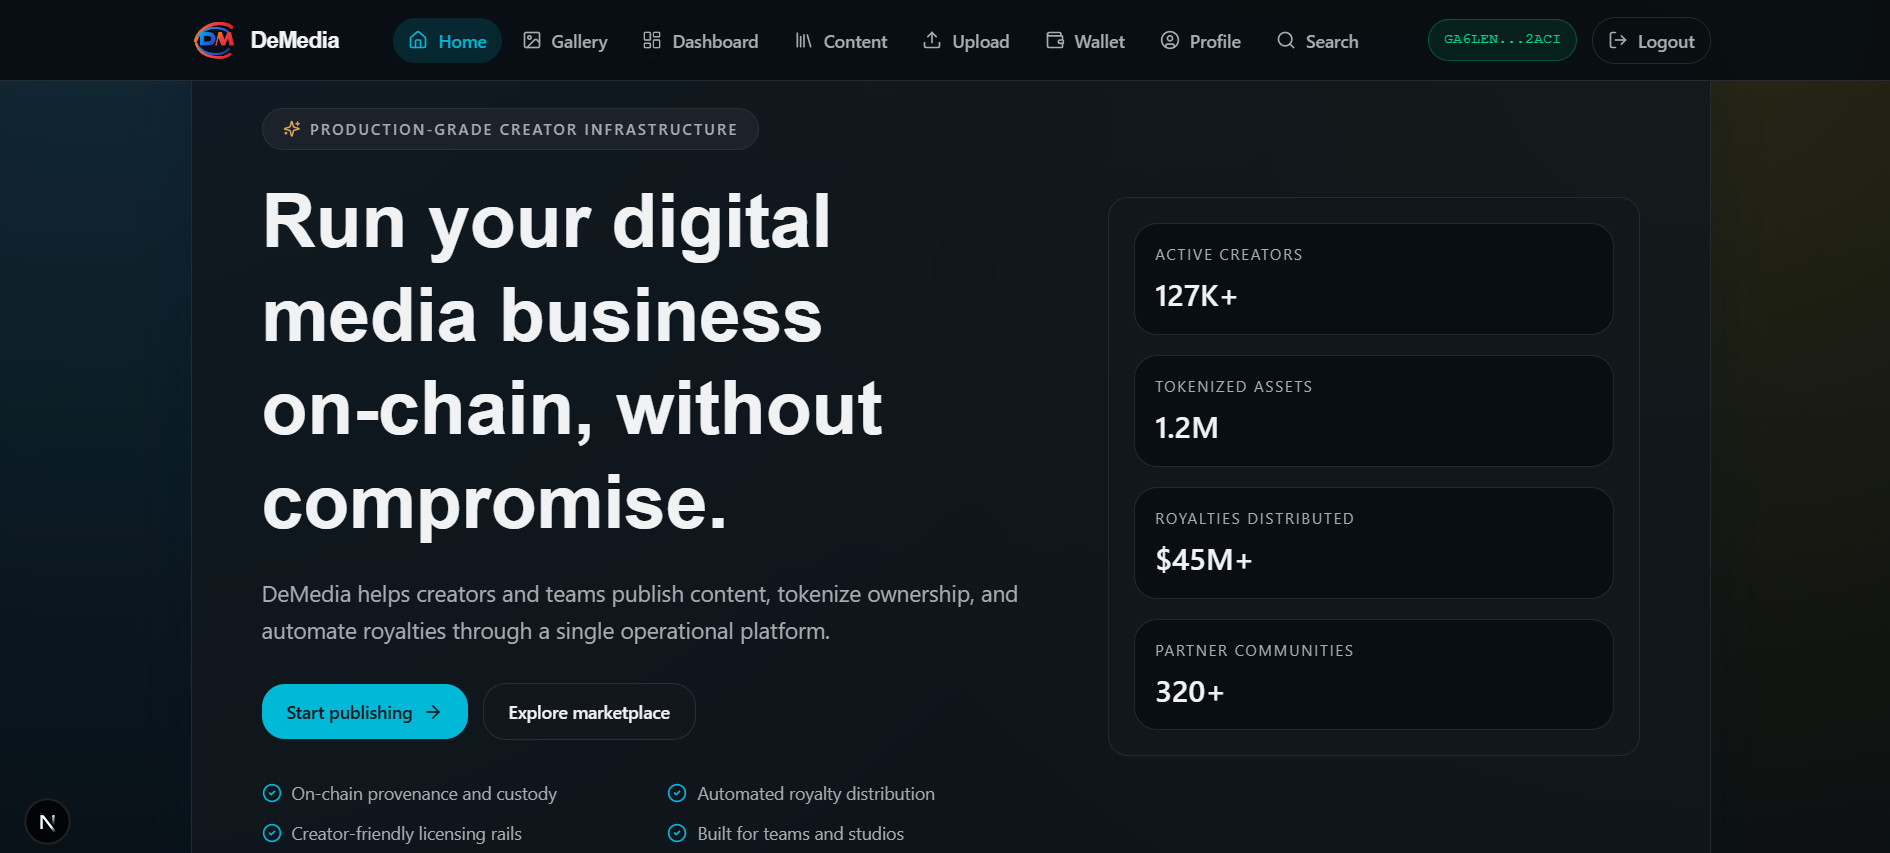
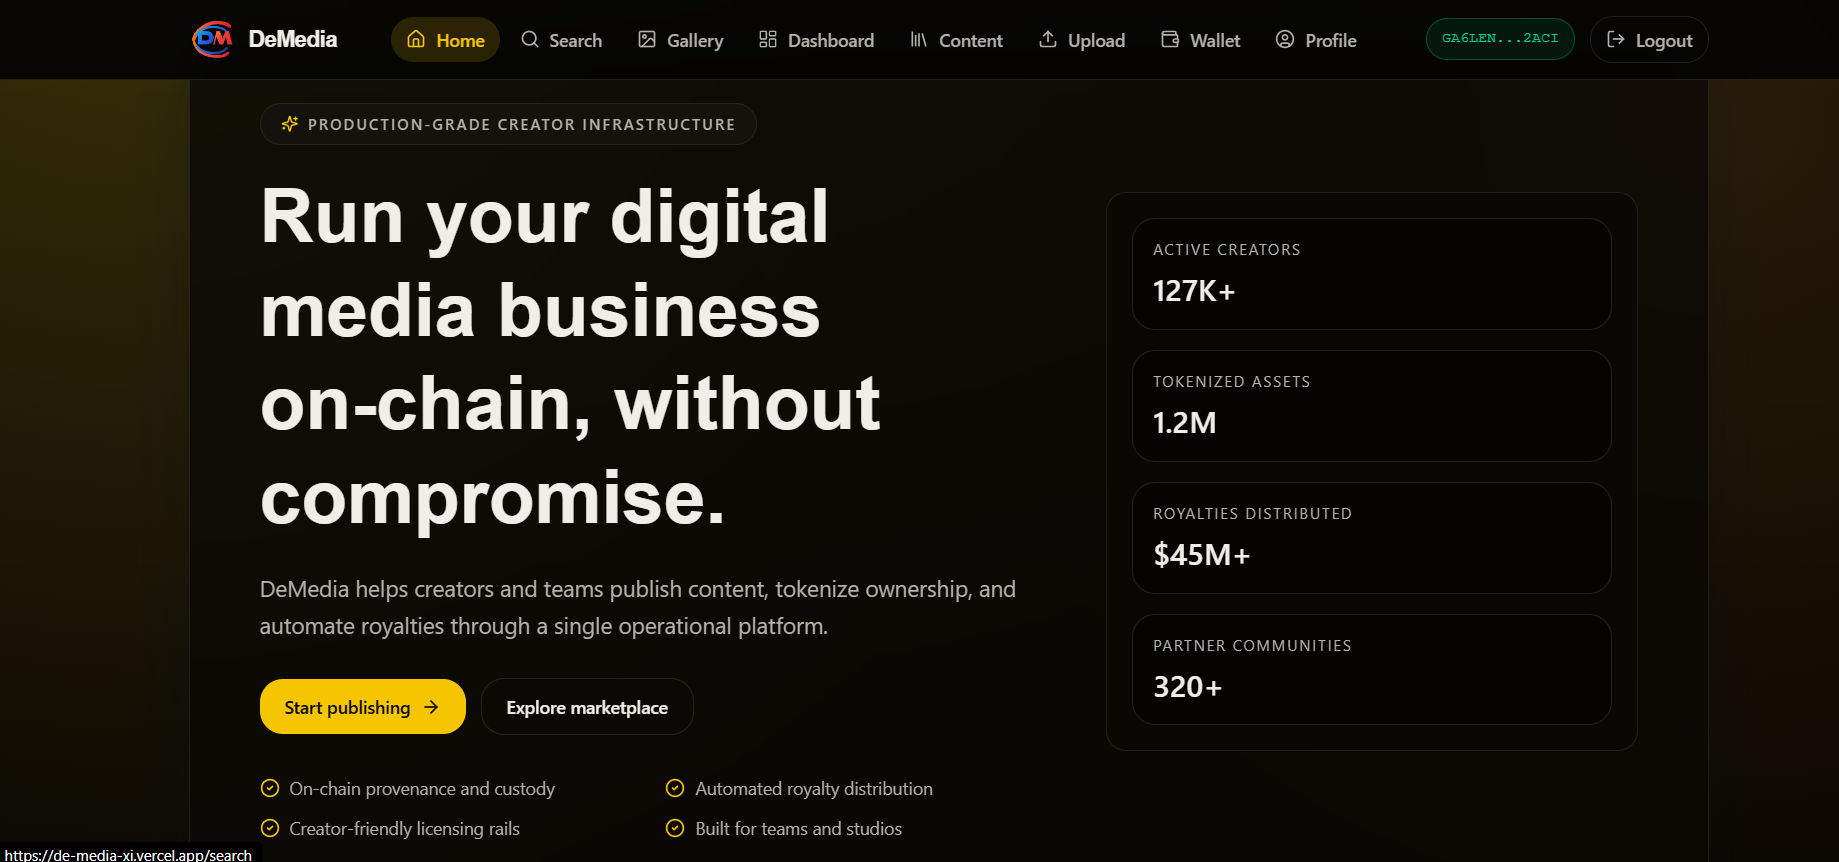
some chnages in readme

diff --git a/README.md b/README.md
@@ -17,15 +17,12 @@ Creators can upload media, register its fingerprint on-chain, mint NFTs, and man
 
 ### 1. Landing Page - Hero Section
 ![Landing Page Hero](docs/screenshots/homepage-hero.png)
-Source: `Screenshot 2026-04-30 174136.png`
 
 ### 2. Dashboard - Creator Overview
 ![Dashboard Overview](docs/screenshots/dashboard-overview.png)
-Source: `Screenshot 2026-04-30 174203.png`
 
 ### 3. Gallery - NFT Grid View
 ![Gallery Grid](docs/screenshots/gallery-grid.png)
-Source: `Screenshot 2026-04-30 174233.png`
 
 ### 4. Wallet - Digital Vault
 ![Wallet Digital Vault](docs/screenshots/wallet-vault.png)
@@ -103,11 +100,12 @@ https://docs.google.com/spreadsheets/d/1NCXxc8W2l84xPI76iBJHE5T7vbewJjRJimM3TimV
 ## Feedback-Driven Update Status (April 30, 2026)
 
 Implemented feedback commits:
-1. [`790064e`](https://github.com/BDutta18/DeMedia/commit/790064e) - Changed the UI to production-ready experience.
-2. [`789fce7`](https://github.com/BDutta18/DeMedia/commit/789fce7) - Implemented search-priority update from feedback and synced README/UI updates.
-3. [`785c6f0`](https://github.com/BDutta18/DeMedia/commit/785c6f0) - Document upload/preview fix based on user feedback.
-4. [`291098a`](https://github.com/BDutta18/DeMedia/commit/291098a) - NFT issue fixes related to gallery/content behavior.
-5. [`6b7795d`](https://github.com/BDutta18/DeMedia/commit/6b7795d) - Wallet and NFT reliability fixes.
+1. [`0729e62`](https://github.com/BDutta18/DeMedia/commit/0729e62) - Additional UI improvements from user feedback iteration.
+2. [`790064e`](https://github.com/BDutta18/DeMedia/commit/790064e) - Changed the UI to production-ready experience.
+3. [`789fce7`](https://github.com/BDutta18/DeMedia/commit/789fce7) - Implemented search-priority update from feedback and synced README/UI updates.
+4. [`785c6f0`](https://github.com/BDutta18/DeMedia/commit/785c6f0) - Document upload/preview fix based on user feedback.
+5. [`291098a`](https://github.com/BDutta18/DeMedia/commit/291098a) - NFT issue fixes related to gallery/content behavior.
+6. [`6b7795d`](https://github.com/BDutta18/DeMedia/commit/6b7795d) - Wallet and NFT reliability fixes.
 
 Feedback to action mapping:
 